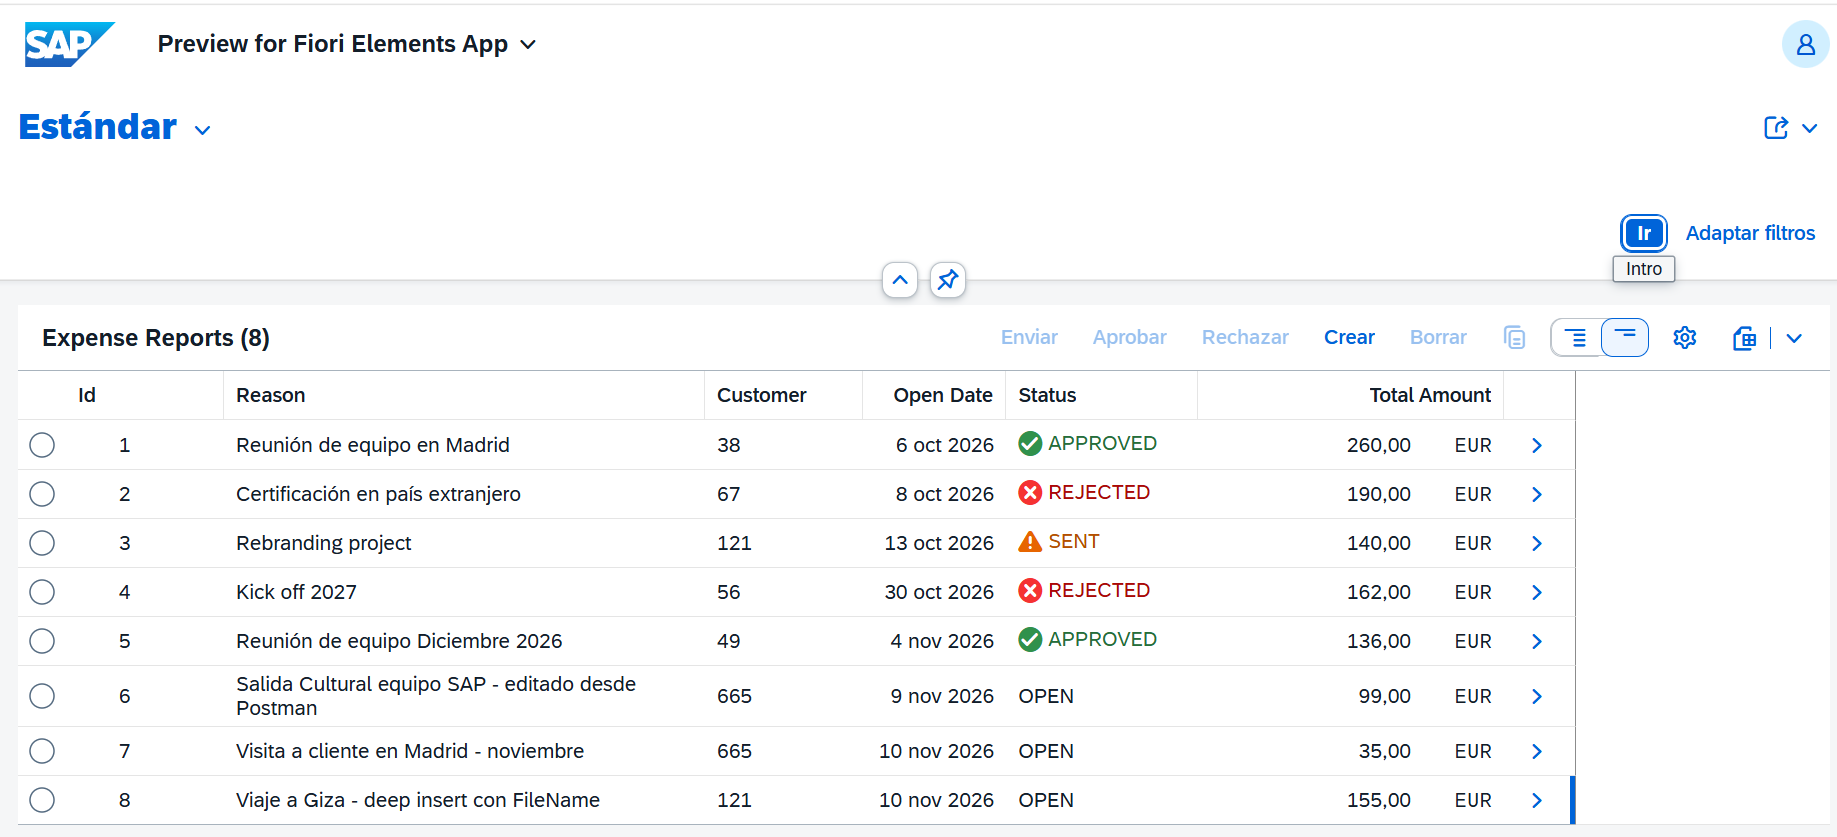
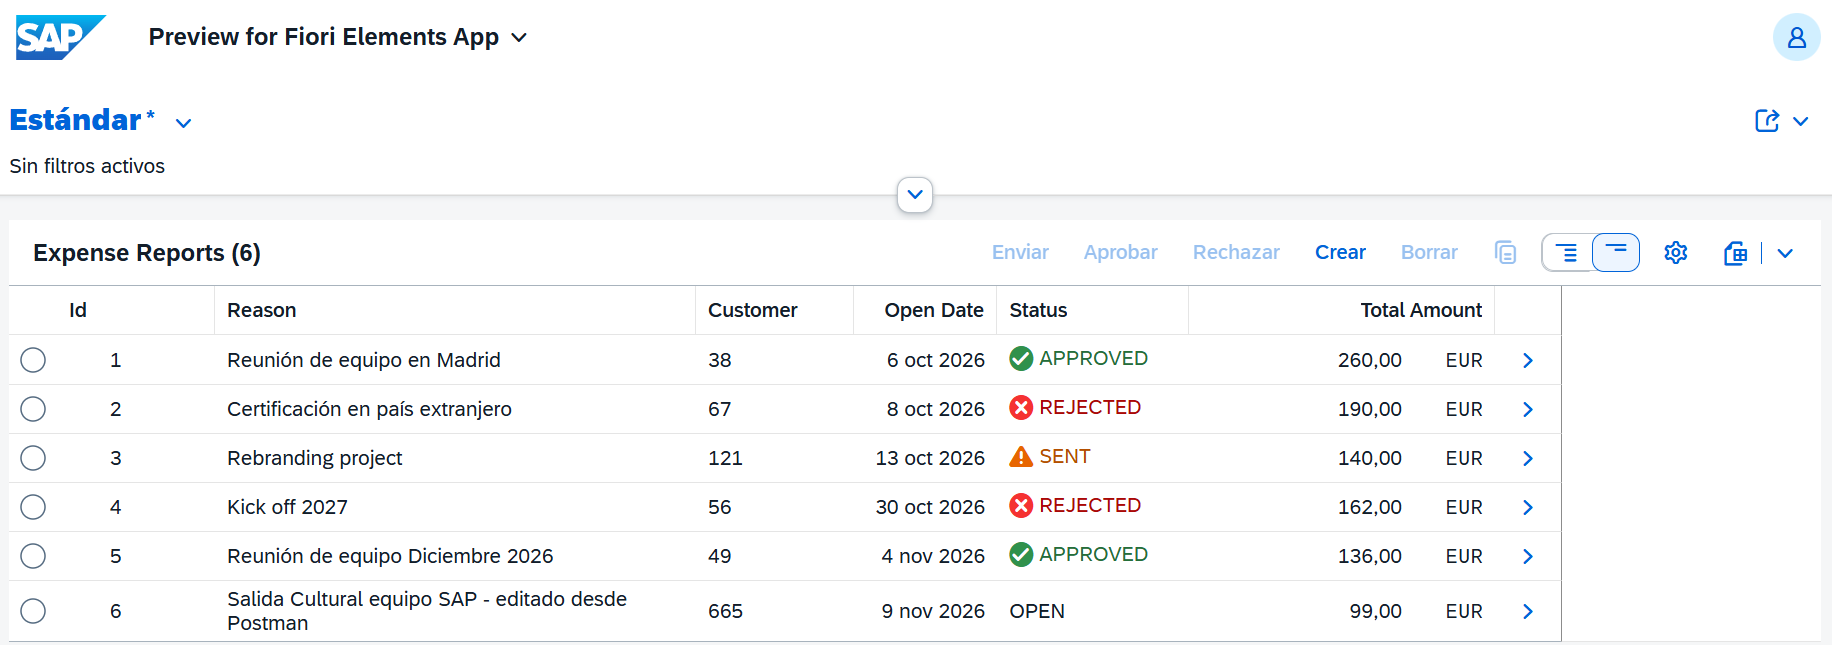
Expense API

diff --git a/BTP ejercicios/15. EXPENSE API/README.md b/BTP ejercicios/15. EXPENSE API/README.md
@@ -14,12 +14,6 @@ Informe (Header, root)
 
 *Lo que crea la API lo ve la app: es el mismo business object.*
 
-```mermaid
-flowchart LR
-  T[(Tablas Z)] --> I["CDS de interfaz ZI_*<br/>BDEF managed + clases ZBP_*"]
-  I --> UI["ZC_EXP_*<br/>App Fiori (V2)"]
-  I --> API["ZC_EXPAPI_*<br/>API Web (V4)"]
-```
 
 ## Índice
 
@@ -65,7 +59,7 @@ BASE_V4 = https://6449ad14-b137-4a27-8017-6421c2c4f0b0.abap.us10.hana.ondemand.c
 }
 ```
 
-![POST cabecera](img/01-cabecera.png)
+![POST cabecera](img/01-Cabecera-Post.png)
 
 **STAR**
 - **S:** la app de gastos existe y hay que comprobar que la API crea informes igual que ella.
